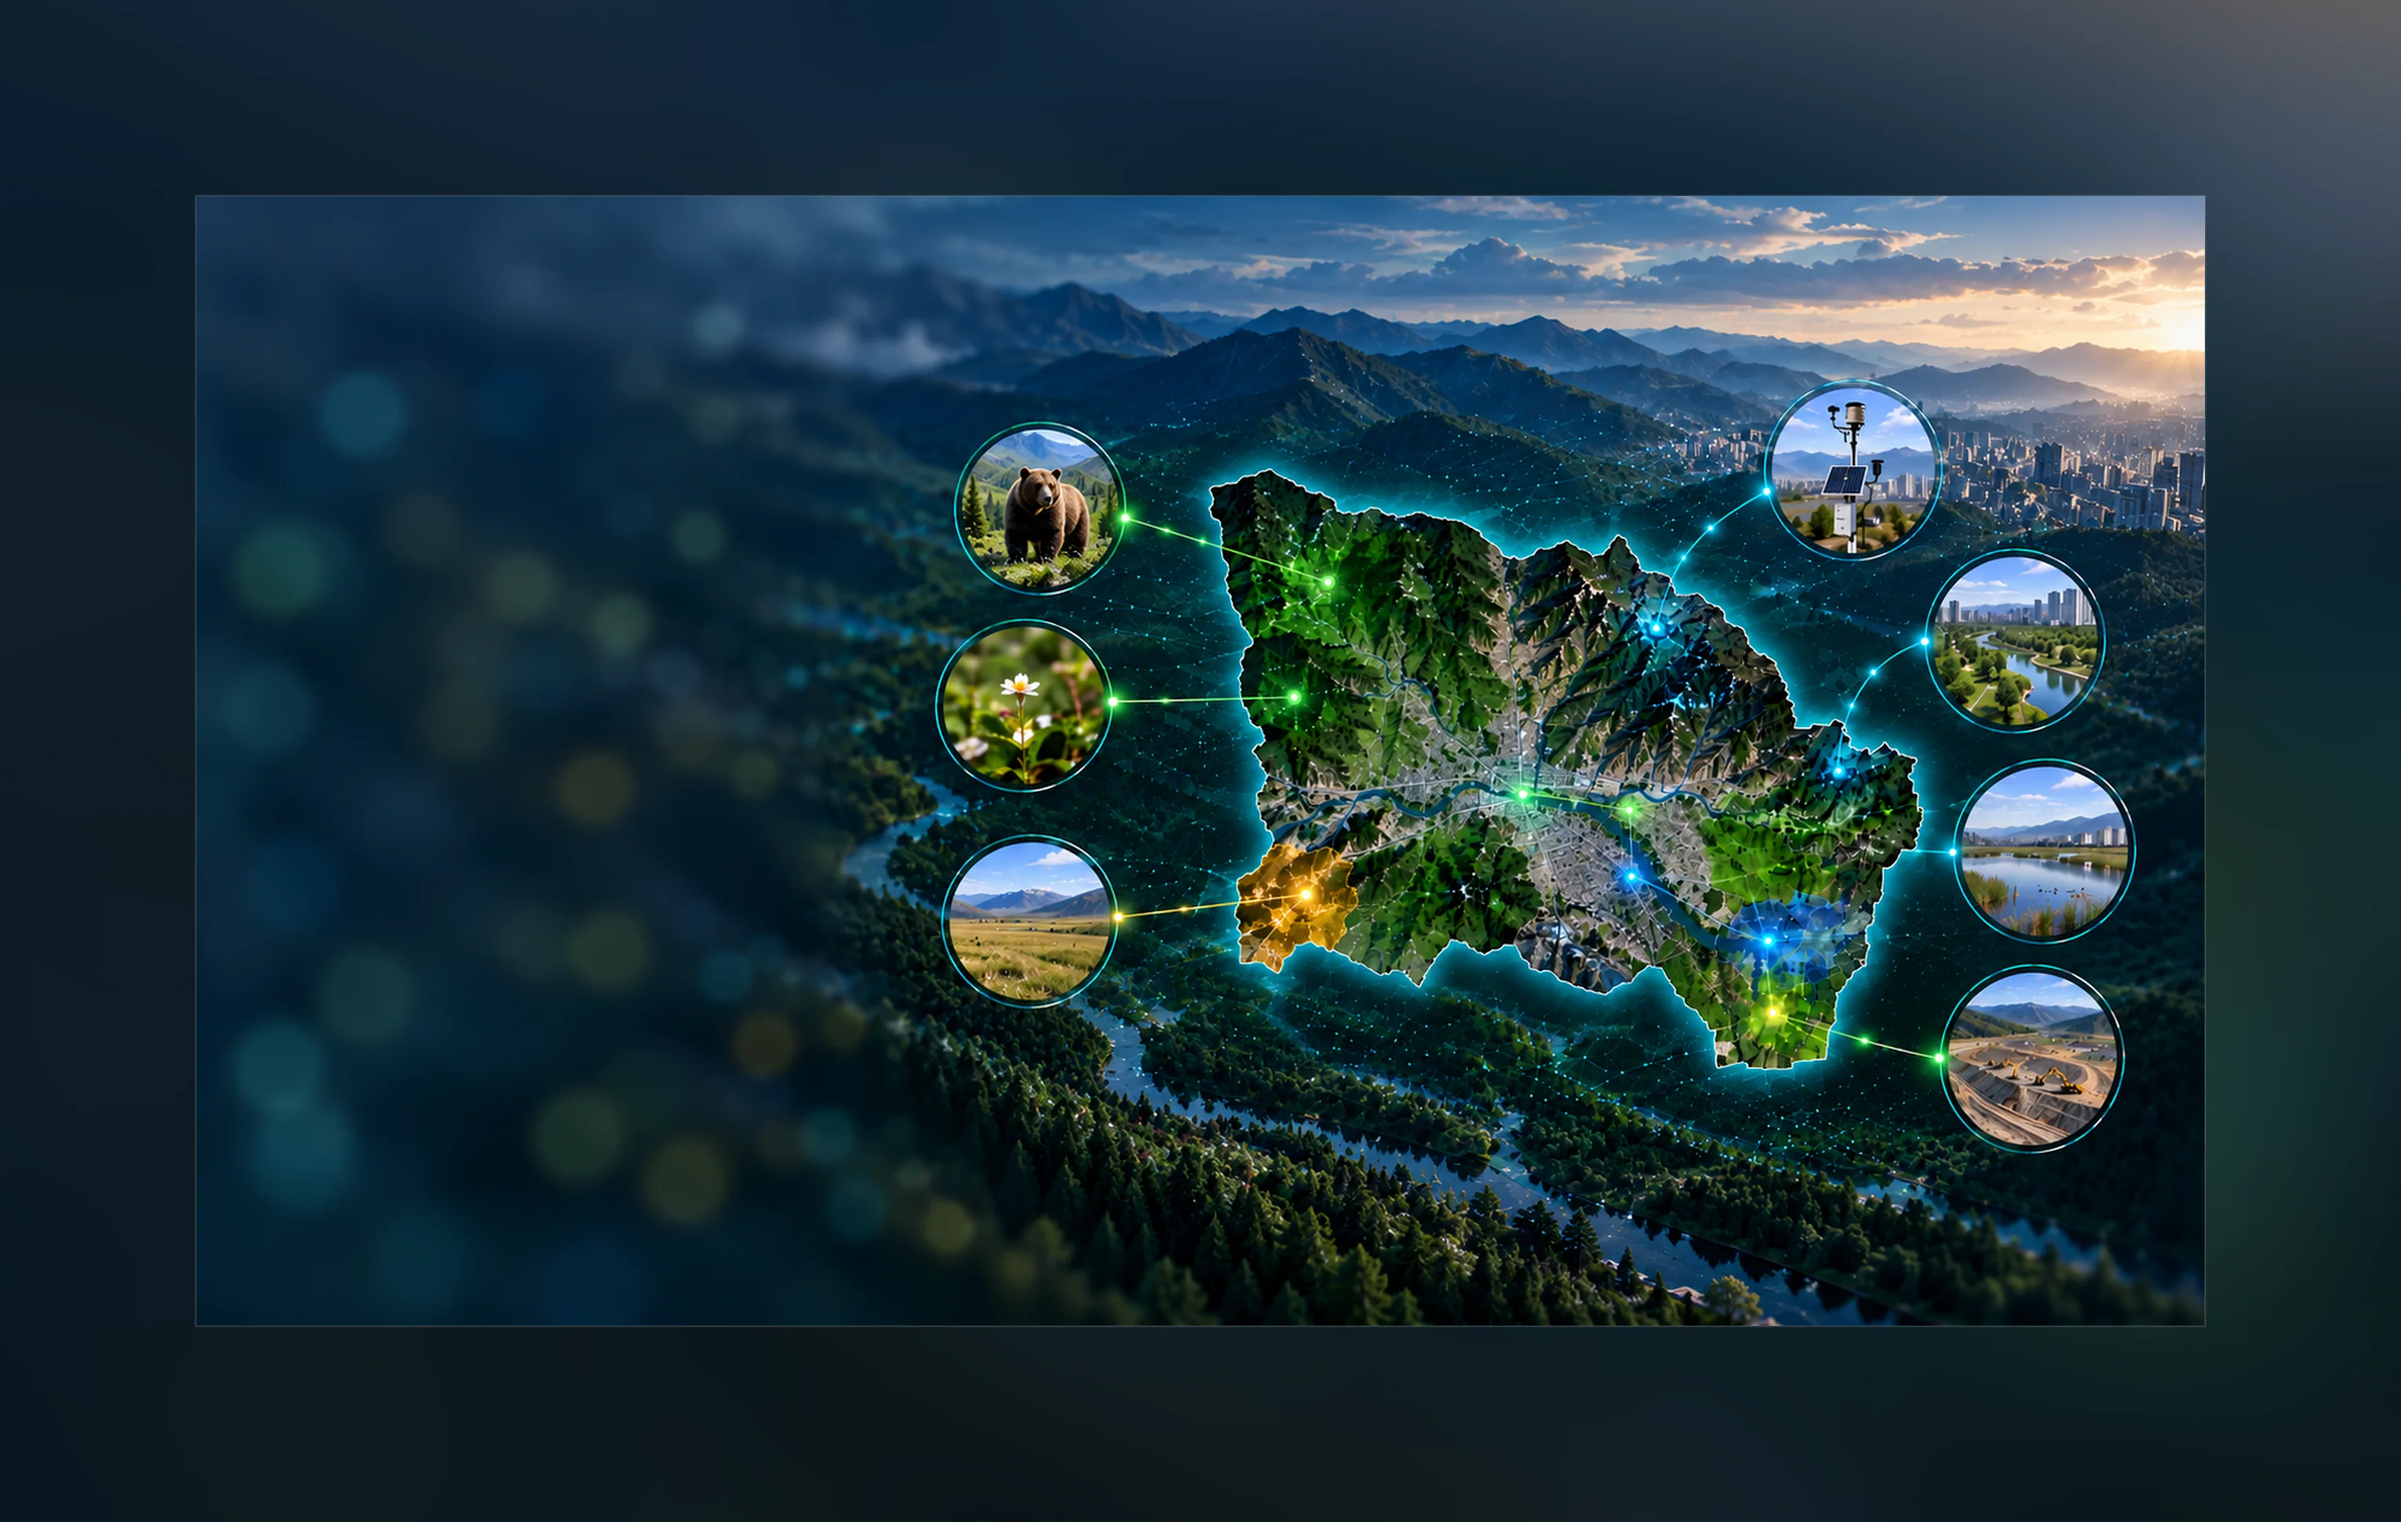
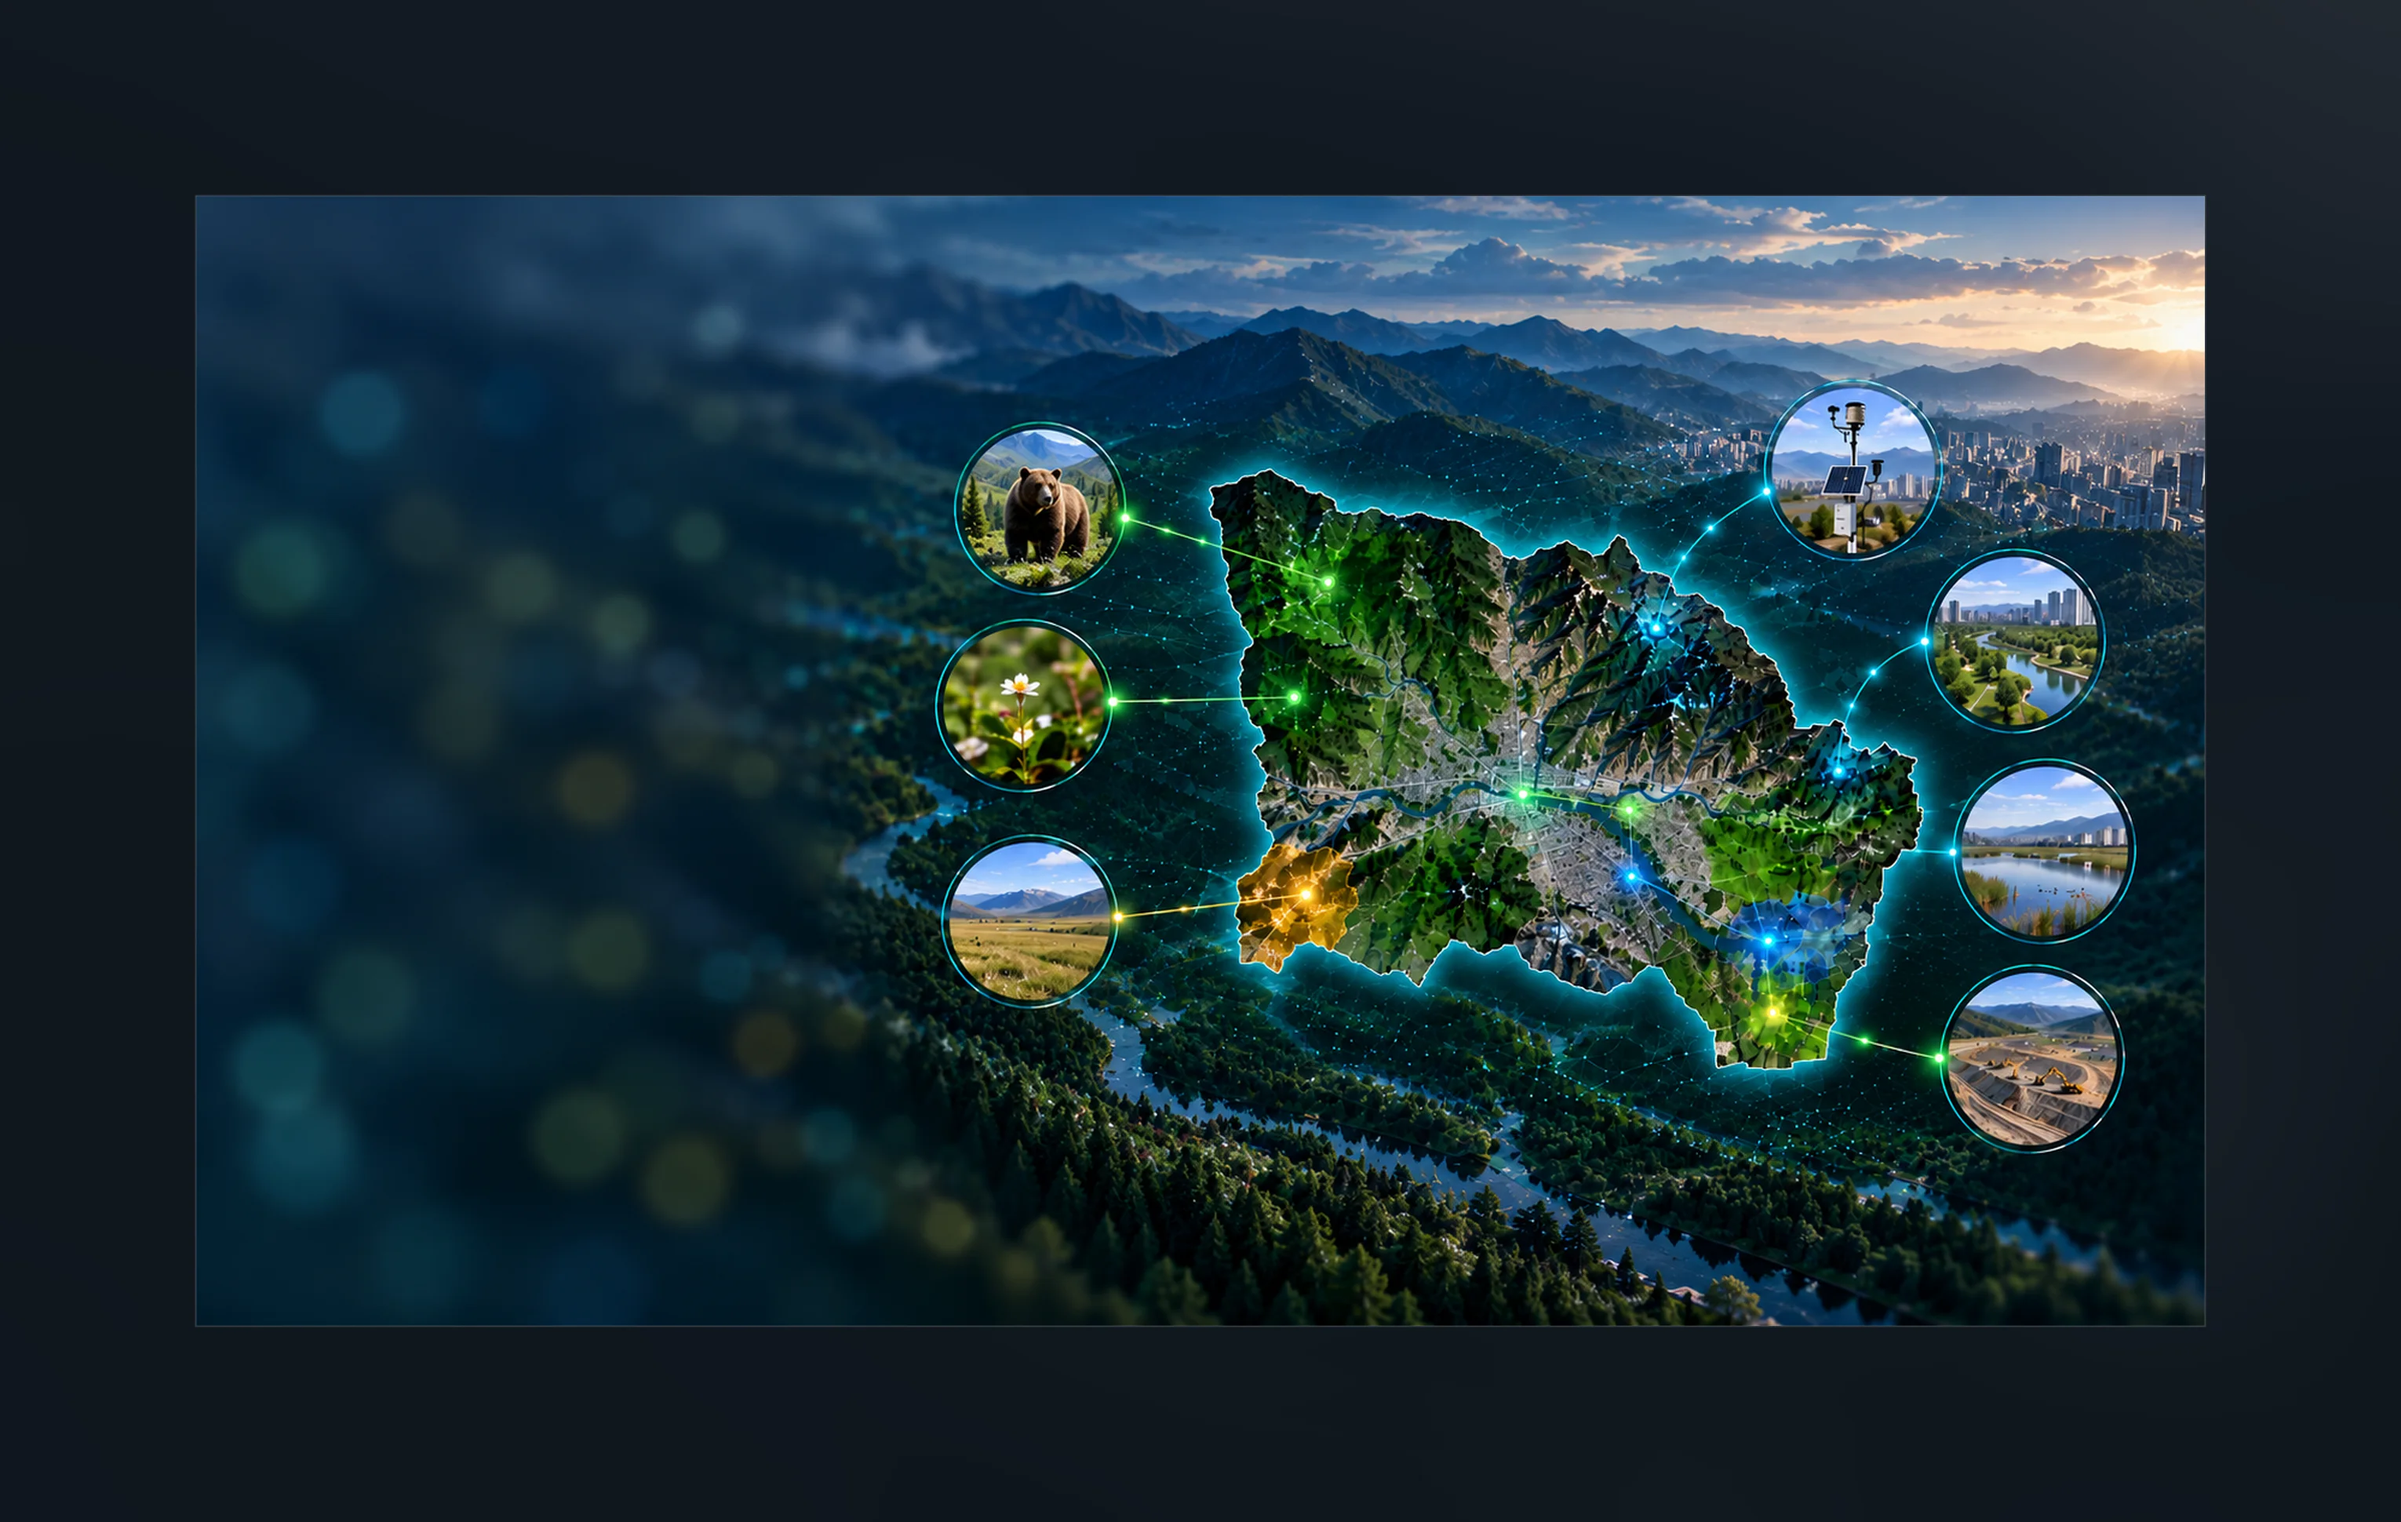
Хүрээний өнгө платформын суурьтай тааруулагдлаа
Хүрээ нь ногоовтор-цэнхэр (#1d3136) байж платформын хүйтэн слэйт
суурь (#0f1720)-аас ялгарч байв. Ялангуяа баруун ба дээд ирмэг:
зургийн тэр тал (нар жаргах тэнгэр, хотын гэрэл) гэрэлтэй.

Ханал 0.25, хөшиг 0.88 болгов. ХОЁУЛАА хэрэгтэй: зөвхөн хөшиг
өтгөрүүлбэл өнгөний өнцөг үлдэнэ, зөвхөн ханал бууруулбал гэрэлтэлт
өндөр хэвээр. Дөрвөн ирмэгийн #0f1720-оос хамгийн их зөрүү 43 → 9.

⚠ Хэмжилтийн арга дээр анхаарах зүйл: sharp-ийн `stats()` нь `extract`,
`composite` зэрэг дамжуулгын үйлдлийг ТООЦДОГГҮЙ тул үргэлж эх зургийн
тоог буцаадаг. Эхний хэмжилт үүнээс болж дөрвөн ирмэгийг ижил (#1d353d)
гэж харуулсан — тэр нь бүтэн зургийн дундаж байсан. Зөв арга нь
`.extract().removeAlpha().raw().toBuffer()`. Үүнийг README-д тэмдэглэв.

Changed region(s): [[0.2173, 0.0, 1.0, 0.2784], [0.9003, 0.6495, 0.9314, 0.7423]]

diff --git a/public/auth/README.md b/public/auth/README.md
@@ -2,9 +2,29 @@
 
 Одоогийн файл: **`background.webp`** — 3060×1940, 350KB.
 
-Хүрээний зайн бүдгэрэлт нь `scripts/make-auth-background.mjs`-ийн `BLUR`
-тогтмолоор тохируулагдана (одоо **150**). Сул бүдгэрэлт дээр зайд
-таних боломжтой дүрс үлдэж, дотоод зураглалтай өрсөлддөг.
+Хүрээний зай нь `scripts/make-auth-background.mjs`-ийн гурван тогтмолоор
+тохируулагдана: `BLUR` (150), `SATURATION` (0.25), `VEIL` (0.88).
+
+⚠ **Хүрээний өнгө платформын суурьтай (`--paper`, #0f1720) тааруулагдсан.**
+Ханал, хөшиг ХОЁУЛАА хэрэгтэй: зөвхөн хөшиг өтгөрүүлбэл зургийн
+ногоовтор-цэнхэр өнгөний өнцөг үлдэж хүрээ нь платформын хүйтэн
+слэйтээс ялгарсаар байна, зөвхөн ханал бууруулбал гэрэлтэлт нь өндөр
+хэвээр.
+
+| ханалт · хөшиг | Дөрвөн ирмэгийн дээд зөрүү |
+|---|---|
+| 1.00 · 0.55 | 43 (баруун, дээд тод ялгарна) |
+| 0.50 · 0.72 | 24 |
+| 0.35 · 0.82 | 15 |
+| **0.25 · 0.88** | **9** |
+
+Зургийн баруун дээд тал (нар жаргах тэнгэр, хотын гэрэл) гэрэлтэй тул
+тэр хоёр ирмэг хамгийн их зөрдөг — тааруулалтыг тэднээр хэмжинэ.
+
+⚠ **Хэмжихдээ `stats()` ХЭРЭГЛЭХГҮЙ.** Тэр нь `extract`, `composite`
+зэрэг дамжуулгын үйлдлийг тооцдоггүй тул үргэлж ЭХ зургийн тоог буцаана
+(дөрвөн ирмэг яг ижил гарвал энэ алдаа мөн). `.extract().removeAlpha()
+.raw().toBuffer()` хэрэглэж, сувгийн тоог шалгана.
 
 ⚠ **ХҮРЭЭ НЬ ФАЙЛ ДОТРОО ШАТААГДСАН.** Зотон 3060×1940, дотор нь
 2560×1440 зураглал дөрвөн талаасаа **250px** зайтай сууна. Зай нь ижил
